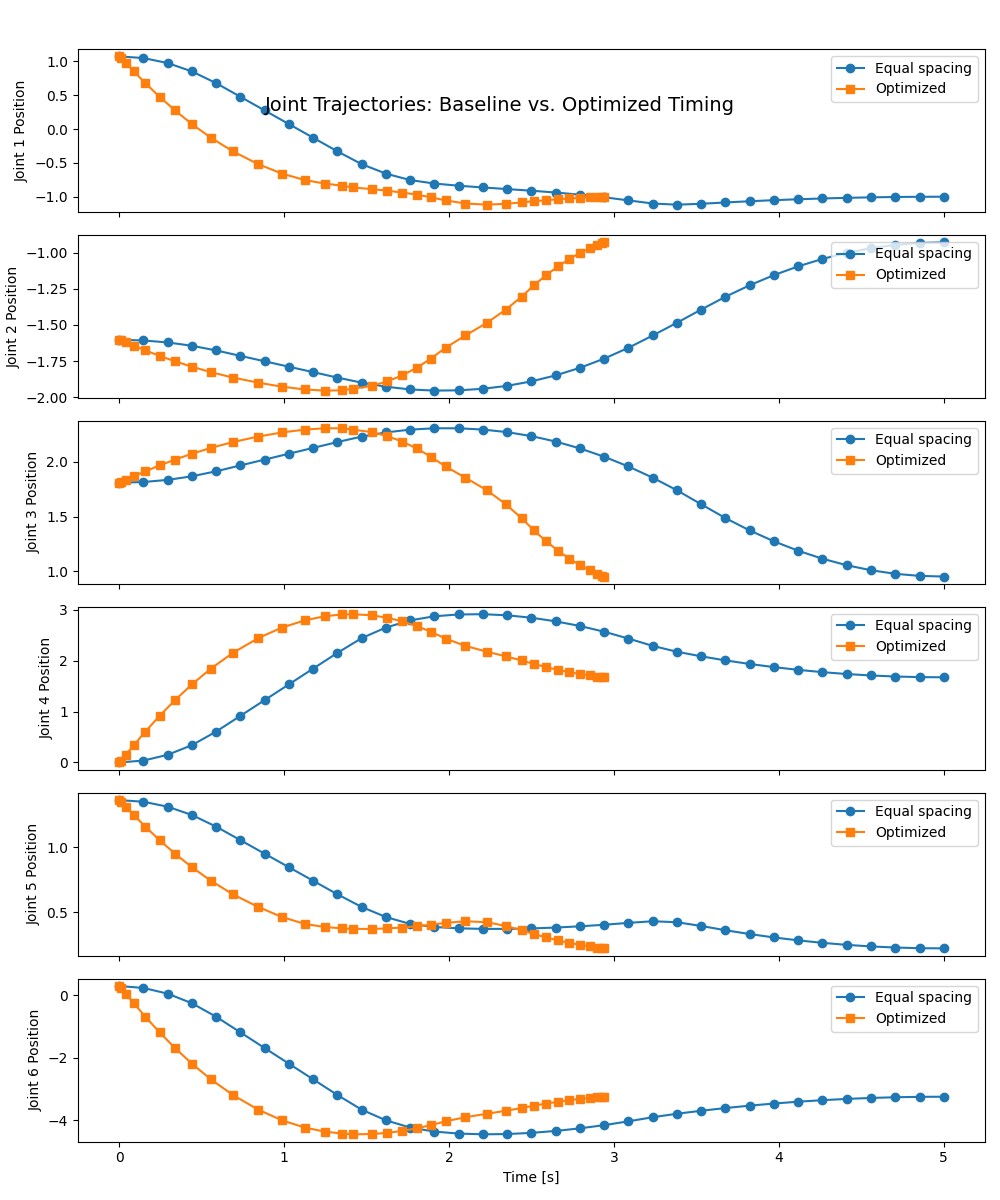
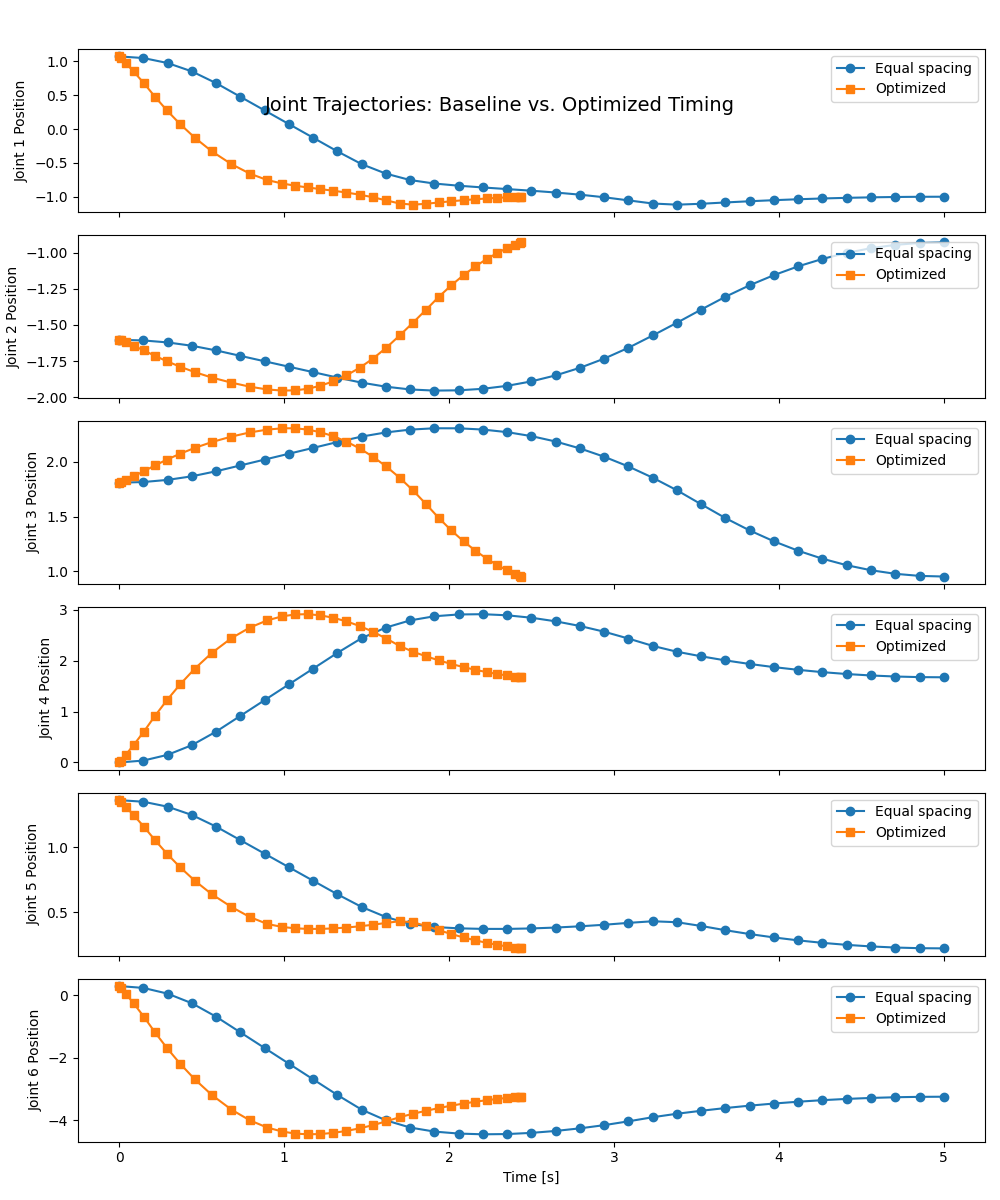
working optimization

diff --git a/optimal_time_stamp.py b/optimal_time_stamp.py
@@ -19,7 +19,7 @@ N, num_joints = q.shape
 # =====================================
 # Example acceleration limits for each joint.
 # Adjust these to match your robot's actual limits.
-acc_limits = np.array([2.0, 2.0, 2.0, 3.0, 4.0, 5.0])  # [rad/s²]
+acc_limits = np.array([5.0, 2.0, 2.0, 5.0, 5.0, 8.0])  # [rad/s²]
 
 # ======================================================
 # 3. Define the Optimization Problem and Helper Functions
